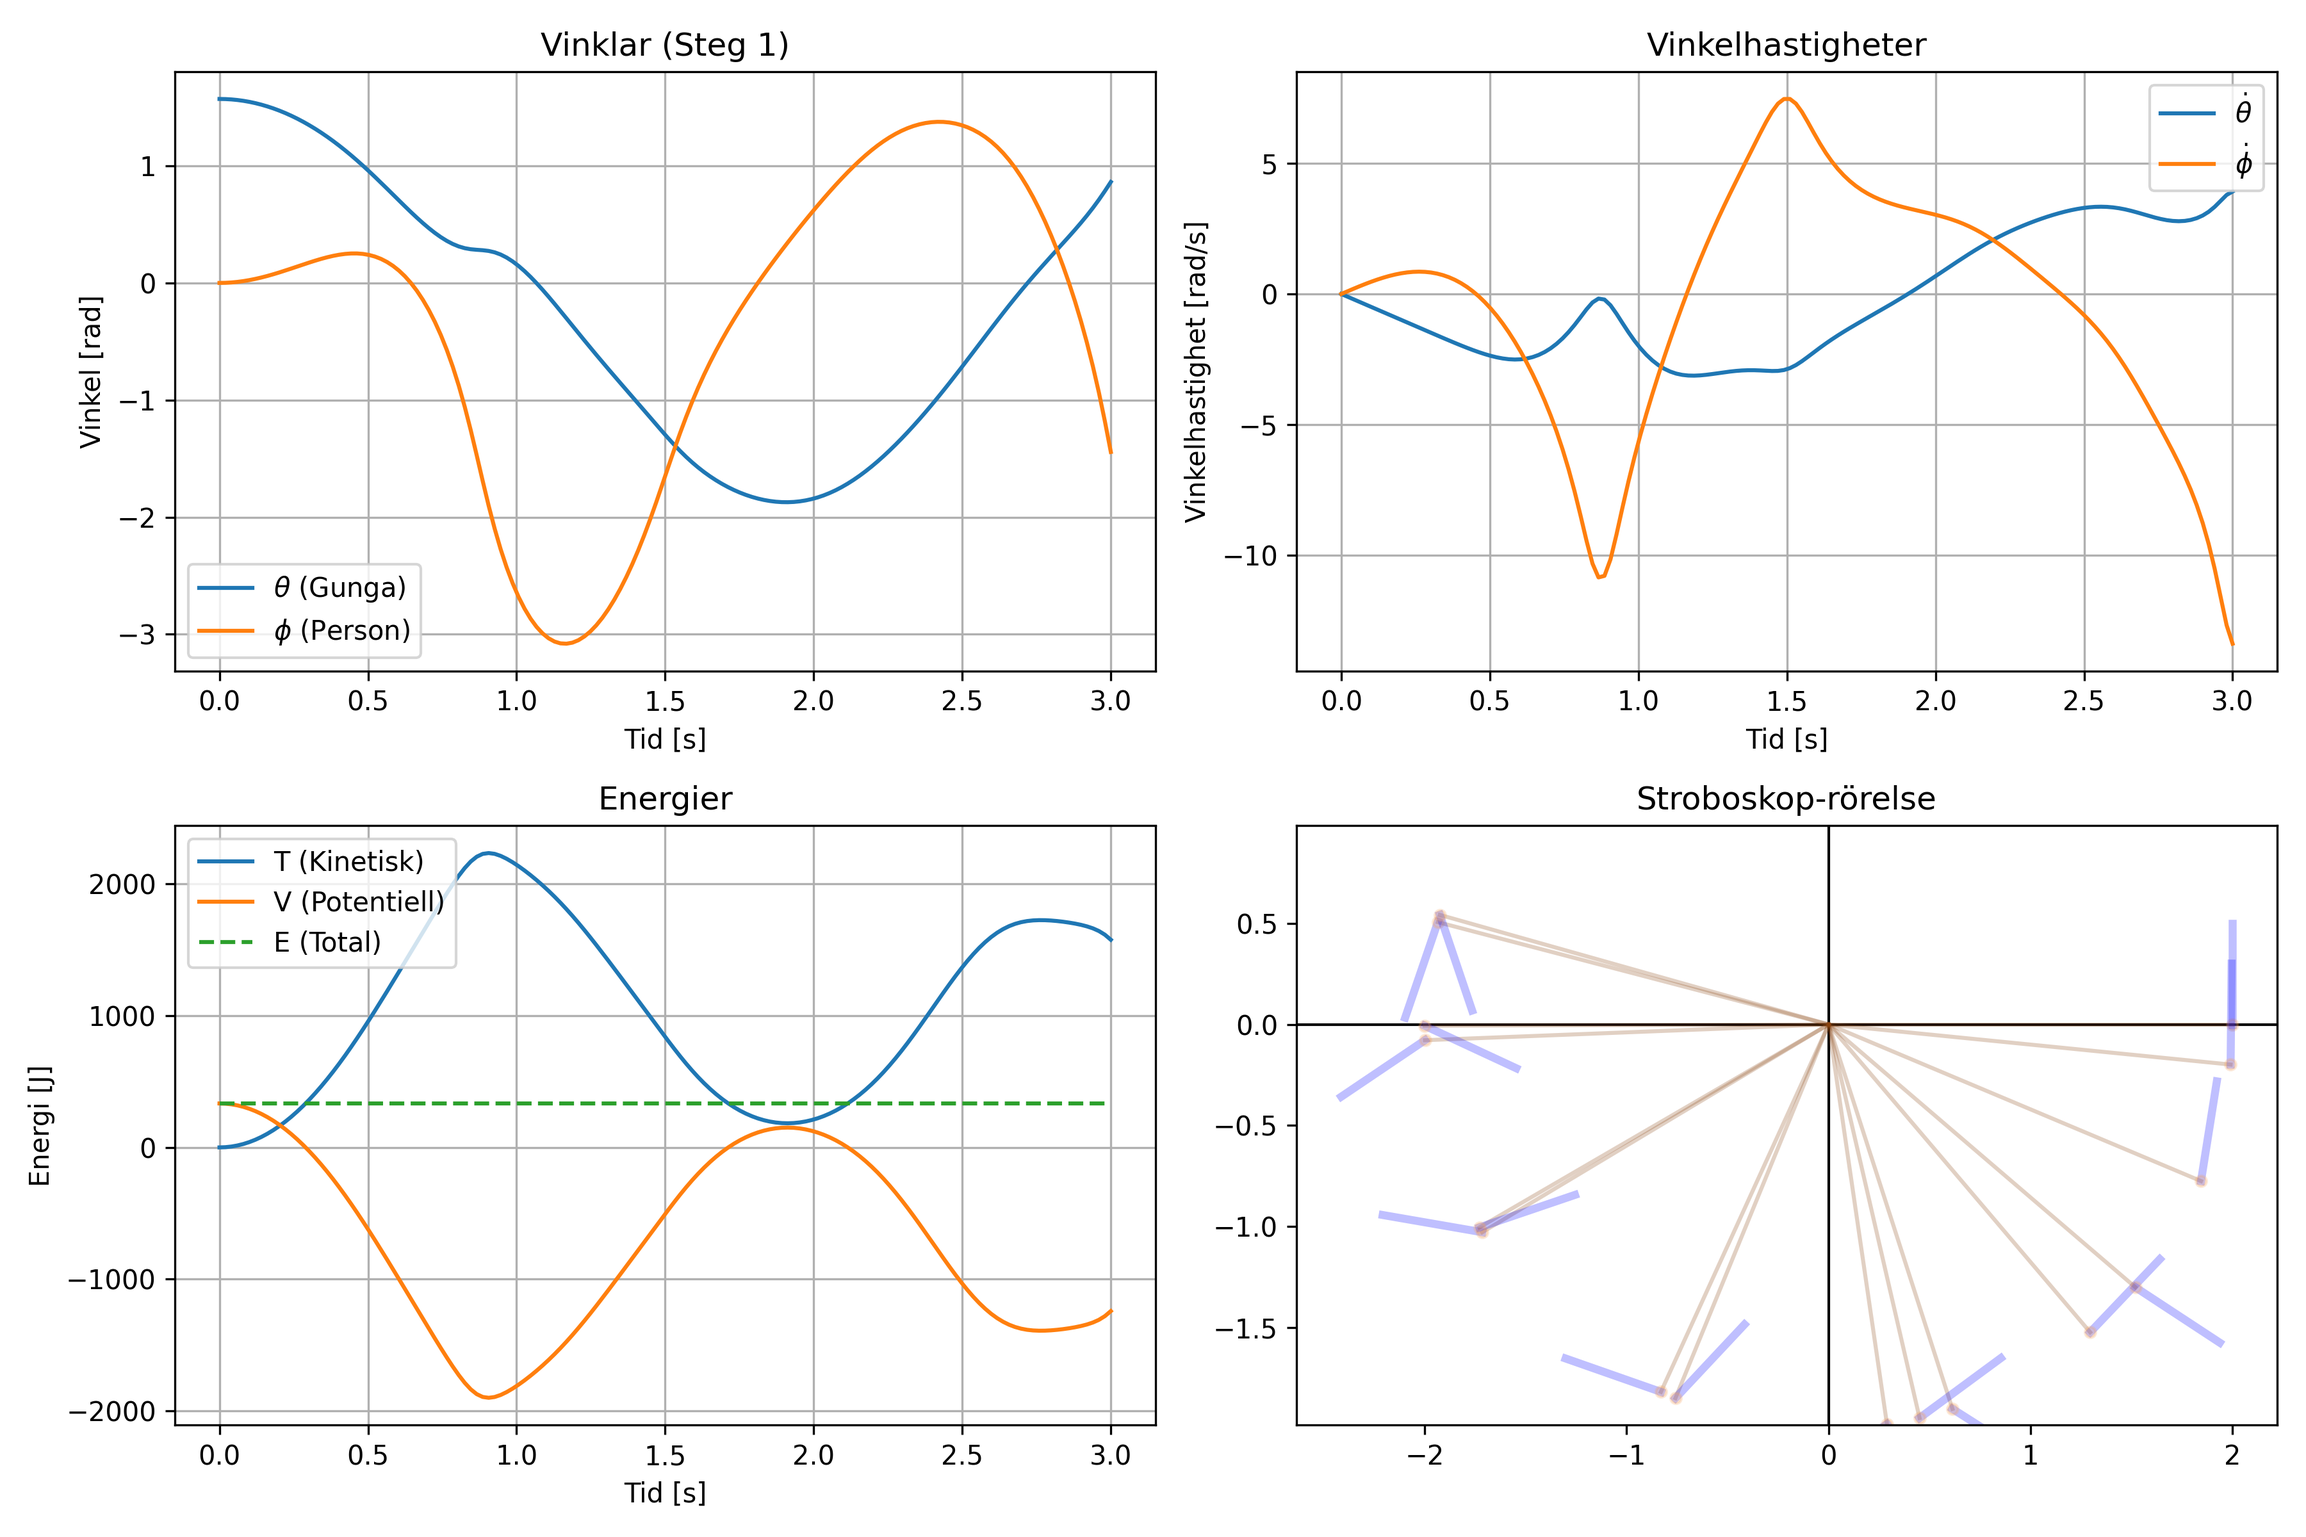
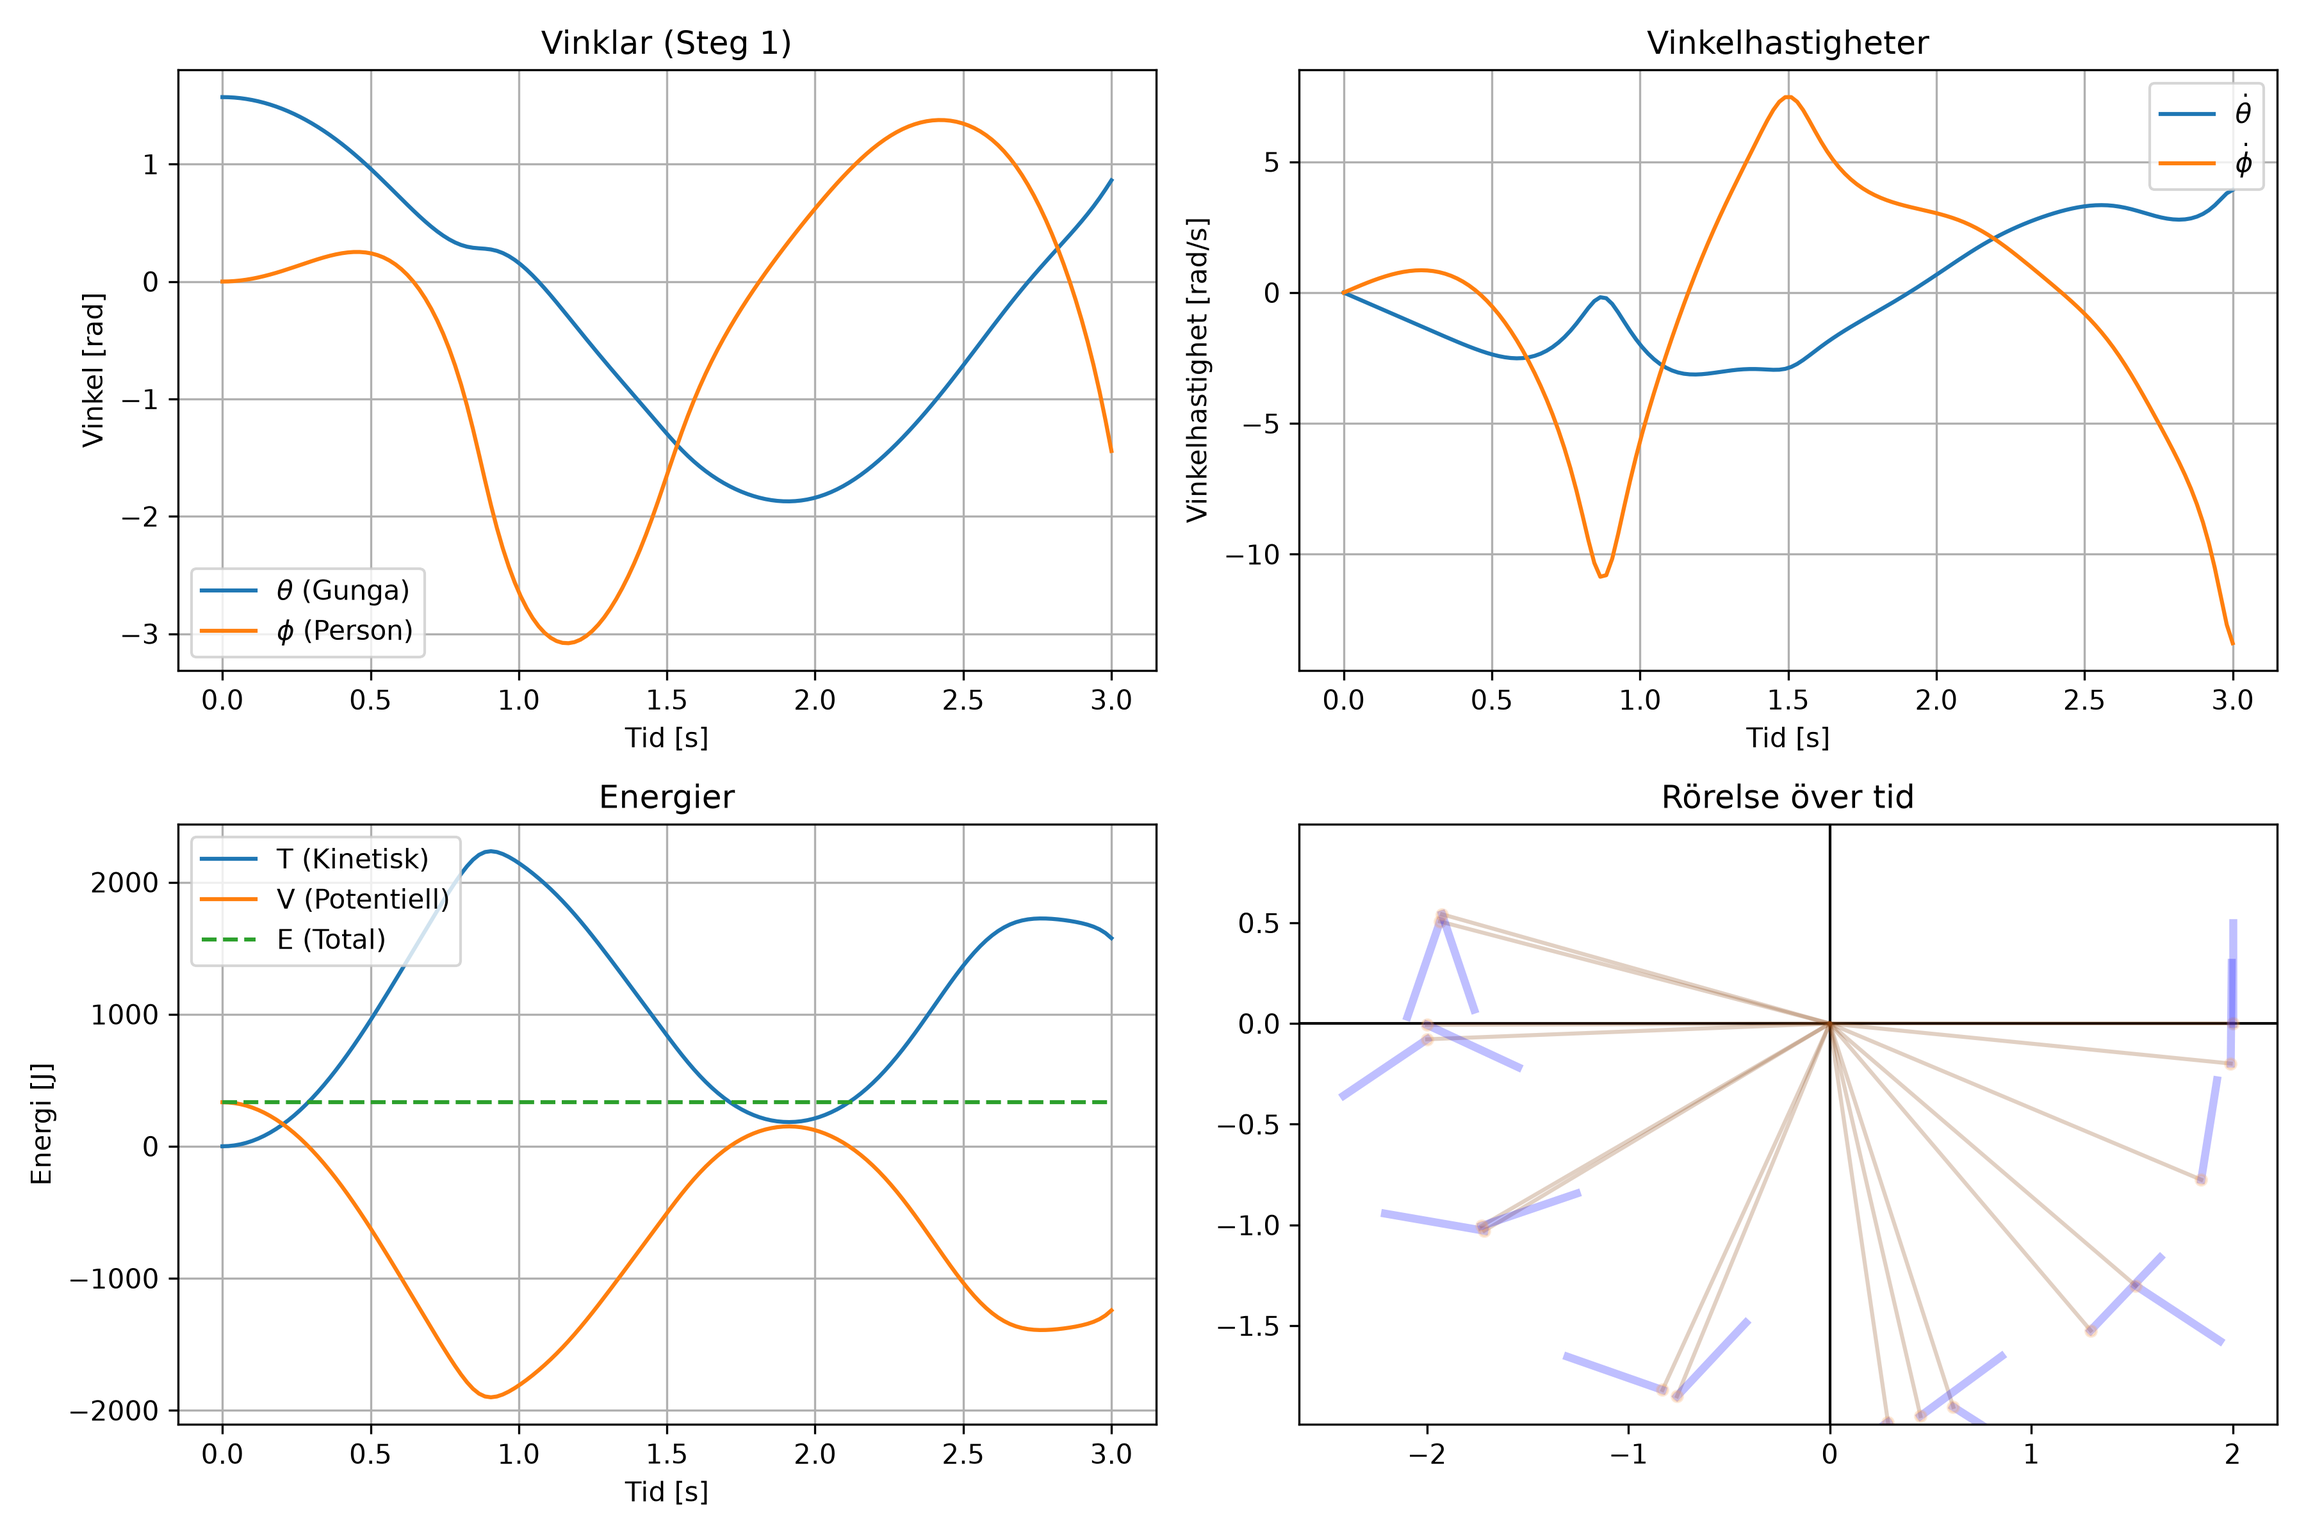
Yes typ jättekommenterad och rätt så go kod

diff --git a/Pendel.py b/Pendel.py
@@ -3,6 +3,7 @@ import sympy as sp
 import matplotlib.pyplot as plt
 import matplotlib.animation as animation
 from scipy.integrate import solve_ivp
+import os
 
 # funktionen som byggeer upp våra matematiska
 # ekvationer för de fysiska problemen
@@ -83,6 +84,15 @@ def setup_equations():
     eq_theta_sym = sp.expand(eq_theta.subs(subs_dict))
     eq_phi_sym = sp.expand(eq_phi.subs(subs_dict))
 
+    eqns = [eq_theta_sym, eq_phi_sym]
+    M_matrix, F_vector = sp.linear_eq_to_matrix(eqns, [th_dd, ph_dd])
+
+    params = (M, k_rad, d, L, m, g, tau, tau_theta)
+    states = (th, ph, th_d, ph_d)
+
+    M_func = sp.lambdify(params + states, M_matrix, "numpy")
+    F_func = sp.lambdify(params + states, F_vector, "numpy")
+
     # Omvandlar de symboliska ekvationerna till en matrisform
     eqns = [eq_theta_sym, eq_phi_sym]
     
@@ -112,80 +122,239 @@ def setup_equations():
 
 
 
+# Anger massan M till 68 kg.
 p_M = 68.0
+# Anger värdet på parametern k som används i systemets ekvationer.
 p_k = 0.5
+# Anger gungans längd L till 2 meter.
 p_L = 2.0
+# Anger massan m till 15 kg.
 p_m = 15.0
+# Anger tyngdaccelerationen till 9,81 m/s².
 p_g = 9.81
+# Anger den maximalt tillåtna kroppsvinkeln phi i radianer.
+# np.pi motsvarar pi och division med 2.1 ger ungefär 85,7 grader.
 phi_max = np.pi / 2.1
+# Anger det nominella maximala vridmomentet till 500 Nm.
 tau_max = 500.0
-sim_tid_steg2 = 15  
-
+# Anger simuleringstiden till 15 sekunder för steg 2 och steg 3.
+sim_tid_steg2 = 15
+# Anropar funktionen som skapar systemets rörelseekvationer.
+# De fyra funktionerna sparas i variabler så att de kan användas senare.
 M_func, F_func, T_func, V_func = setup_equations()
 
 
+# Definierar funktionen som beräknar systemets tillståndsderivator.
+# t är tiden, y innehåller tillståndet, active väljer aktivt/passivt system.
+# curr_Kp och curr_Kd är regulatorns förstärkningar och curr_d är avståndsparametern.
 def state_derivative(t, y, active, curr_Kp, curr_Kd, curr_d):
+
+    # Delar upp tillståndsvektorn y i fyra variabler.
+    # theta = gungans vinkel, phi = kroppens vinkel.
+    # theta_d = gungans vinkelhastighet, phi_d = kroppens vinkelhastighet.
     theta, phi, theta_d, phi_d = y
 
+    # Sätter det styrande vridmomentet på kroppen till noll från början.
     tau_val = 0.0
+
+    # Sätter vridmomentet som påverkar gungans rörelse direkt till noll.
     tau_theta_val = 0.0
 
+    # Kontrollerar om det aktiva styrsystemet ska användas.
+    # Om active är False används inget av styrmomenten nedan.
     if active:
-       
+
+        # Beräknar ett mjukt styrvärde mellan 0 och 1 med tanh.
+        # När gungan rör sig i positiv riktning blir värdet nära 1.
+        # När gungan rör sig i negativ riktning blir värdet nära 0.
+        # Talet 0.15 bestämmer hur snabbt växlingen sker.
         pump_switch = 0.5 * (1.0 + np.tanh(theta_d / 0.15))
+
+        # Samlar rörelseekvationerna och skriver om dem på matrisformen M*q_dd = F
+        # Beräknar önskad kroppsvinkel utifrån rörelsens riktning.
+        # Referensvinkeln ligger mellan 0 och phi_max.
         phi_ref = phi_max * pump_switch
 
+        # Beräknar önskat vridmoment med en PD-regulator.
+        # Kp-delen korrigerar skillnaden mellan aktuell och önskad kroppsvinkel.
+        # Kd-delen bromsar kroppens vinkelhastighet för att dämpa rörelsen.
         tau_ideal = -curr_Kp * p_M * p_g * curr_d * (phi - phi_ref) - curr_Kd * phi_d
 
-        
+        # Begränsar regulatorns vridmoment till ett bestämt intervall.
+        # Lägsta värdet är -500 Nm och högsta värdet är 750 Nm.
+        # Observera att stoppmomenten nedan kan öka momentet ytterligare.
         tau_val = np.clip(tau_ideal, -tau_max, 1.5 * tau_max)
 
-        
+        # Anger styvheten hos de virtuella stopp som begränsar kroppsvinkeln.
         k_stop_phi = 3000.0
+
+        # Anger dämpningen hos de virtuella stoppen.
         d_stop_phi = 400.0
+
+        # Kontrollerar om kroppsvinkeln har blivit mindre än noll.
         if phi < 0.0:
+
+            # Lägger till ett återförande moment som motverkar rörelsen
+            # utanför den undre vinkelgränsen och dämpar vinkelhastigheten.
             tau_val += -k_stop_phi * phi - d_stop_phi * phi_d
+
+        # Kontrollerar om kroppsvinkeln har överskridit maxvinkeln.
         elif phi > phi_max:
+
+            # Lägger till ett återförande moment som försöker föra tillbaka
+            # kroppen inom tillåtet vinkelområde och samtidigt dämpa rörelsen.
             tau_val += -k_stop_phi * (phi - phi_max) - d_stop_phi * phi_d
 
-       
+        # Anger koefficienten för linjär dämpning av gungans rörelse.
         c_lin = 6.0
+
+        # Anger koefficienten för kvadratisk dämpning av gungans rörelse.
         c_quad = 18.0
+
+        # Beräknar ett motverkande moment på gungan.
+        # Den linjära delen ökar med hastigheten och den kvadratiska
+        # delen blir särskilt betydelsefull vid högre hastigheter.
+        # abs() används så att dämpningen alltid motverkar rörelseriktningen.
         tau_theta_val = -c_lin * theta_d - c_quad * theta_d * abs(theta_d)
 
+    # Beräknar systemets massmatris genom att anropa M_func.
+    # Matrisen används i rörelseekvationen M*q_dd = F.
     M_mat = np.array(
+
+        # Skickar in systemets parametrar, moment, vinklar och vinkelhastigheter.
         M_func(p_M, p_k, curr_d, p_L, p_m, p_g, tau_val, tau_theta_val, theta, phi, theta_d, phi_d),
-        dtype=float
-    )
-    F_vec = np.array(
-        F_func(p_M, p_k, curr_d, p_L, p_m, p_g, tau_val, tau_theta_val, theta, phi, theta_d, phi_d),
+
+        # Ser till att resultatet representeras som flyttal.
         dtype=float
     )
 
+    # Beräknar högerledet F i systemets rörelseekvationer.
+    F_vec = np.array(
+
+        # Anropar den tidigare skapade funktionen för högerledet
+        # med samma parametrar och aktuella tillstånd.
+        F_func(p_M, p_k, curr_d, p_L, p_m, p_g, tau_val, tau_theta_val, theta, phi, theta_d, phi_d),
+
+        # Omvandlar resultatets datatyp till flyttal.
+        dtype=float
+    )
+
+    # Löser ekvationssystemet M*q_dd = F för att få vinkelaccelerationerna.
+    # flatten() gör om resultatet till en endimensionell array.
     q_dd = np.linalg.solve(M_mat, F_vec).flatten()
 
+    # Returnerar de fyra tillståndsderivatorna i rätt ordning:
+    # gungans vinkelhastighet, kroppens vinkelhastighet,
+    # gungans vinkelacceleration och kroppens vinkelacceleration.
     return [theta_d, phi_d, q_dd[0], q_dd[1]]
 
+def plot_parameter_variation(scenarios, param_title, filename):
+    """
+    Hjälpfunktion för att köra och rita 2 grafer per bild (theta och phi över 20 sekunder)
+    samt visa och spara slutvärdena.
+    """
+    plt.figure(f"Analys - {param_title}", figsize=(14, 6))
 
+    t_span = (0, 20)
+    t_eval_points = np.linspace(t_span[0], t_span[1], int((t_span[1] - t_span[0]) * 50))
+
+    for sc in scenarios:
+        sol = solve_ivp(
+            fun=lambda t, y: state_derivative(
+                t, y, True, 
+                curr_Kp=sc.get("Kp", 10.0), 
+                curr_Kd=sc.get("Kd", 300.0), 
+                curr_d=sc.get("d", 0.5),
+                curr_tau_max=sc.get("tau_max", tau_max_nom),
+                curr_M=sc.get("M", p_M_nom)
+            ),
+            t_span=t_span,
+            y0=[0.0, phi_max, 0.0, 0.0],
+            method='RK45',
+            t_eval=t_eval_points,
+            rtol=1e-6,
+            atol=1e-8,
+            max_step=0.02
+        )
+
+        t_end = sol.t[-1]
+        theta_end = sol.y[0][-1]
+        phi_end = sol.y[1][-1]
+
+        # Graf 1: Gungans vinkel (theta)
+        plt.subplot(1, 2, 1)
+        line, = plt.plot(sol.t, sol.y[0], label=sc["name"], color=sc["color"], lw=1.5)
+        plt.plot(t_end, theta_end, 'o', color=sc["color"])
+        plt.annotate(
+            f"{theta_end:.2f} rad", 
+            xy=(t_end, theta_end), 
+            xytext=(-45, 5), 
+            textcoords='offset points',
+            color=sc["color"],
+            fontsize=9,
+            fontweight='bold'
+        )
+
+        # Graf 2: Kroppens vinkel (phi)
+        plt.subplot(1, 2, 2)
+        plt.plot(sol.t, sol.y[1], label=sc["name"], color=sc["color"], lw=1.5)
+        plt.plot(t_end, phi_end, 'o', color=sc["color"])
+        plt.annotate(
+            f"{phi_end:.2f} rad", 
+            xy=(t_end, phi_end), 
+            xytext=(-45, 5), 
+            textcoords='offset points',
+            color=sc["color"],
+            fontsize=9,
+            fontweight='bold'
+        )
+
+    plt.subplot(1, 2, 1)
+    plt.title(f'Gungans vinkel ($\\theta$) över tid – Variation av {param_title}')
+    plt.xlabel('Tid (s)')
+    plt.ylabel('Vinkel (rad)')
+    plt.legend()
+    plt.grid(True)
+
+    plt.subplot(1, 2, 2)
+    plt.title(f'Kroppens vinkel ($\\varphi$) över tid – Variation av {param_title}')
+    plt.xlabel('Tid (s)')
+    plt.ylabel('Vinkel (rad)')
+    plt.legend()
+    plt.grid(True)
+
+    plt.tight_layout()
+    plt.savefig(filename, dpi=300)
+    print(f"--> Graf sparad som: {os.path.abspath(filename)}")
+    plt.show()
+
+# Huvudfunktion som kör simuleringen för olika steg.
 def run_simulation(step):
+    # Anger standardvärden för regulatorns förstärkningar och 
+    # avståndsparametern.
     std_Kp = 10.0
     std_Kd = 300.0
     std_d = 0.5
-
+    # Anger nominella värden för tau_max och M för senare användning.
+    # tau_max_nom = 500.0
     if step in [1, 2]:
+        # Anger initialt tillstånd och simuleringstid beroende på 
+        # vilket steg som körs.
         if step == 1:
             print("\nKör Steg 1: Passivt system (3 sekunder)...")
             y0 = [np.pi / 2, 0.0, 0.0, 0.0]
             t_span = (0, 3)
             active = False
             solver_kwargs = {'rtol': 1e-8, 'atol': 1e-10, 'max_step': 0.01}
+        # Anger initialt tillstånd och simuleringstid beroende på 
+        # vilket steg som körs.
         else:
             print(f"\nKör Steg 2: Aktivt system ({sim_tid_steg2} sekunder)...")
             y0 = [0.0, phi_max, 0.0, 0.0]
             t_span = (0, sim_tid_steg2)
             active = True
             solver_kwargs = {'rtol': 1e-6, 'atol': 1e-8, 'max_step': 0.02}
-
+        # Anger antalet utvärderingspunkter för simuleringen.
         t_eval_points = np.linspace(t_span[0], t_span[1], int((t_span[1] - t_span[0]) * 50))
         sol = solve_ivp(
             fun=lambda t, y: state_derivative(t, y, active, std_Kp, std_Kd, std_d),
@@ -195,21 +364,22 @@ def run_simulation(step):
             t_eval=t_eval_points,
             **solver_kwargs
         )
-
+        # Anger att simuleringen är klar och visar hur lång tid som beräknats.
         print(f"Simulering klar: {sol.t[-1]:.1f} av {t_span[1]} s beräknade ({len(sol.t)} bildrutor).")
 
         t = sol.t
         theta, phi, theta_d, phi_d = sol.y
-
+        # Beräknar kinetisk och potentiell energi för varje tidpunkt i simuleringen.
         T_vals = np.zeros_like(t)
         V_vals = np.zeros_like(t)
+        # Loopar igenom varje tidpunkt och beräknar energierna med hjälp av
+        # de tidigare definierade funktionerna.
         for i in range(len(t)):
             T_vals[i] = float(T_func(p_M, p_k, std_d, p_L, p_m, p_g, 0, 0, theta[i], phi[i], theta_d[i], phi_d[i]))
             V_vals[i] = float(V_func(p_M, p_k, std_d, p_L, p_m, p_g, 0, 0, theta[i], phi[i], theta_d[i], phi_d[i]))
         E_vals = T_vals + V_vals
 
-        
-        plt.figure(f"Rapportgrafer Steg {step}", figsize=(12, 8))
+        fig1 = plt.figure(f"Rapportgrafer Steg {step}", figsize=(12, 8))
 
         plt.subplot(2, 2, 1)
         plt.plot(t, theta, label=r'$\theta$ (Gunga)')
@@ -240,12 +410,13 @@ def run_simulation(step):
         plt.legend()
 
         plt.subplot(2, 2, 4)
-        plt.title('Stroboskop-rörelse')
+        plt.title('Rörelse över tid')
         plt.axhline(0, color='k', lw=1)
         plt.axvline(0, color='k', lw=1)
-
+        
         strobe_step = 0.2 if t_span[1] <= 20 else 0.5
         interval_indices = [np.argmin(np.abs(t - t_val)) for t_val in np.arange(0, t_span[1] + 0.1, strobe_step)]
+        
         for i in interval_indices:
             if i >= len(t):
                 continue
@@ -262,6 +433,10 @@ def run_simulation(step):
         plt.axis('equal')
         plt.ylim(-3.5, 2.5)
         plt.tight_layout()
+        
+        filename = f"rapport_steg_{step}.png"
+        fig1.savefig(filename, dpi=300)
+        print(f"--> Graf sparad som: {os.path.abspath(filename)}")
         print(f"--> Visar grafer för Steg {step}. Stäng fönstret för att starta animationen.")
         plt.show()
 
@@ -366,4 +541,7 @@ def run_simulation(step):
 if __name__ == "__main__":
     run_simulation(step=1)
     run_simulation(step=2)
-    run_simulation(step=3)
+    # run_simulation(step=3)  # Kd
+    # run_simulation(step=4)  # Kp
+    # run_simulation(step=5)  # tau-max
+    # run_simulation(step=6)  # M
